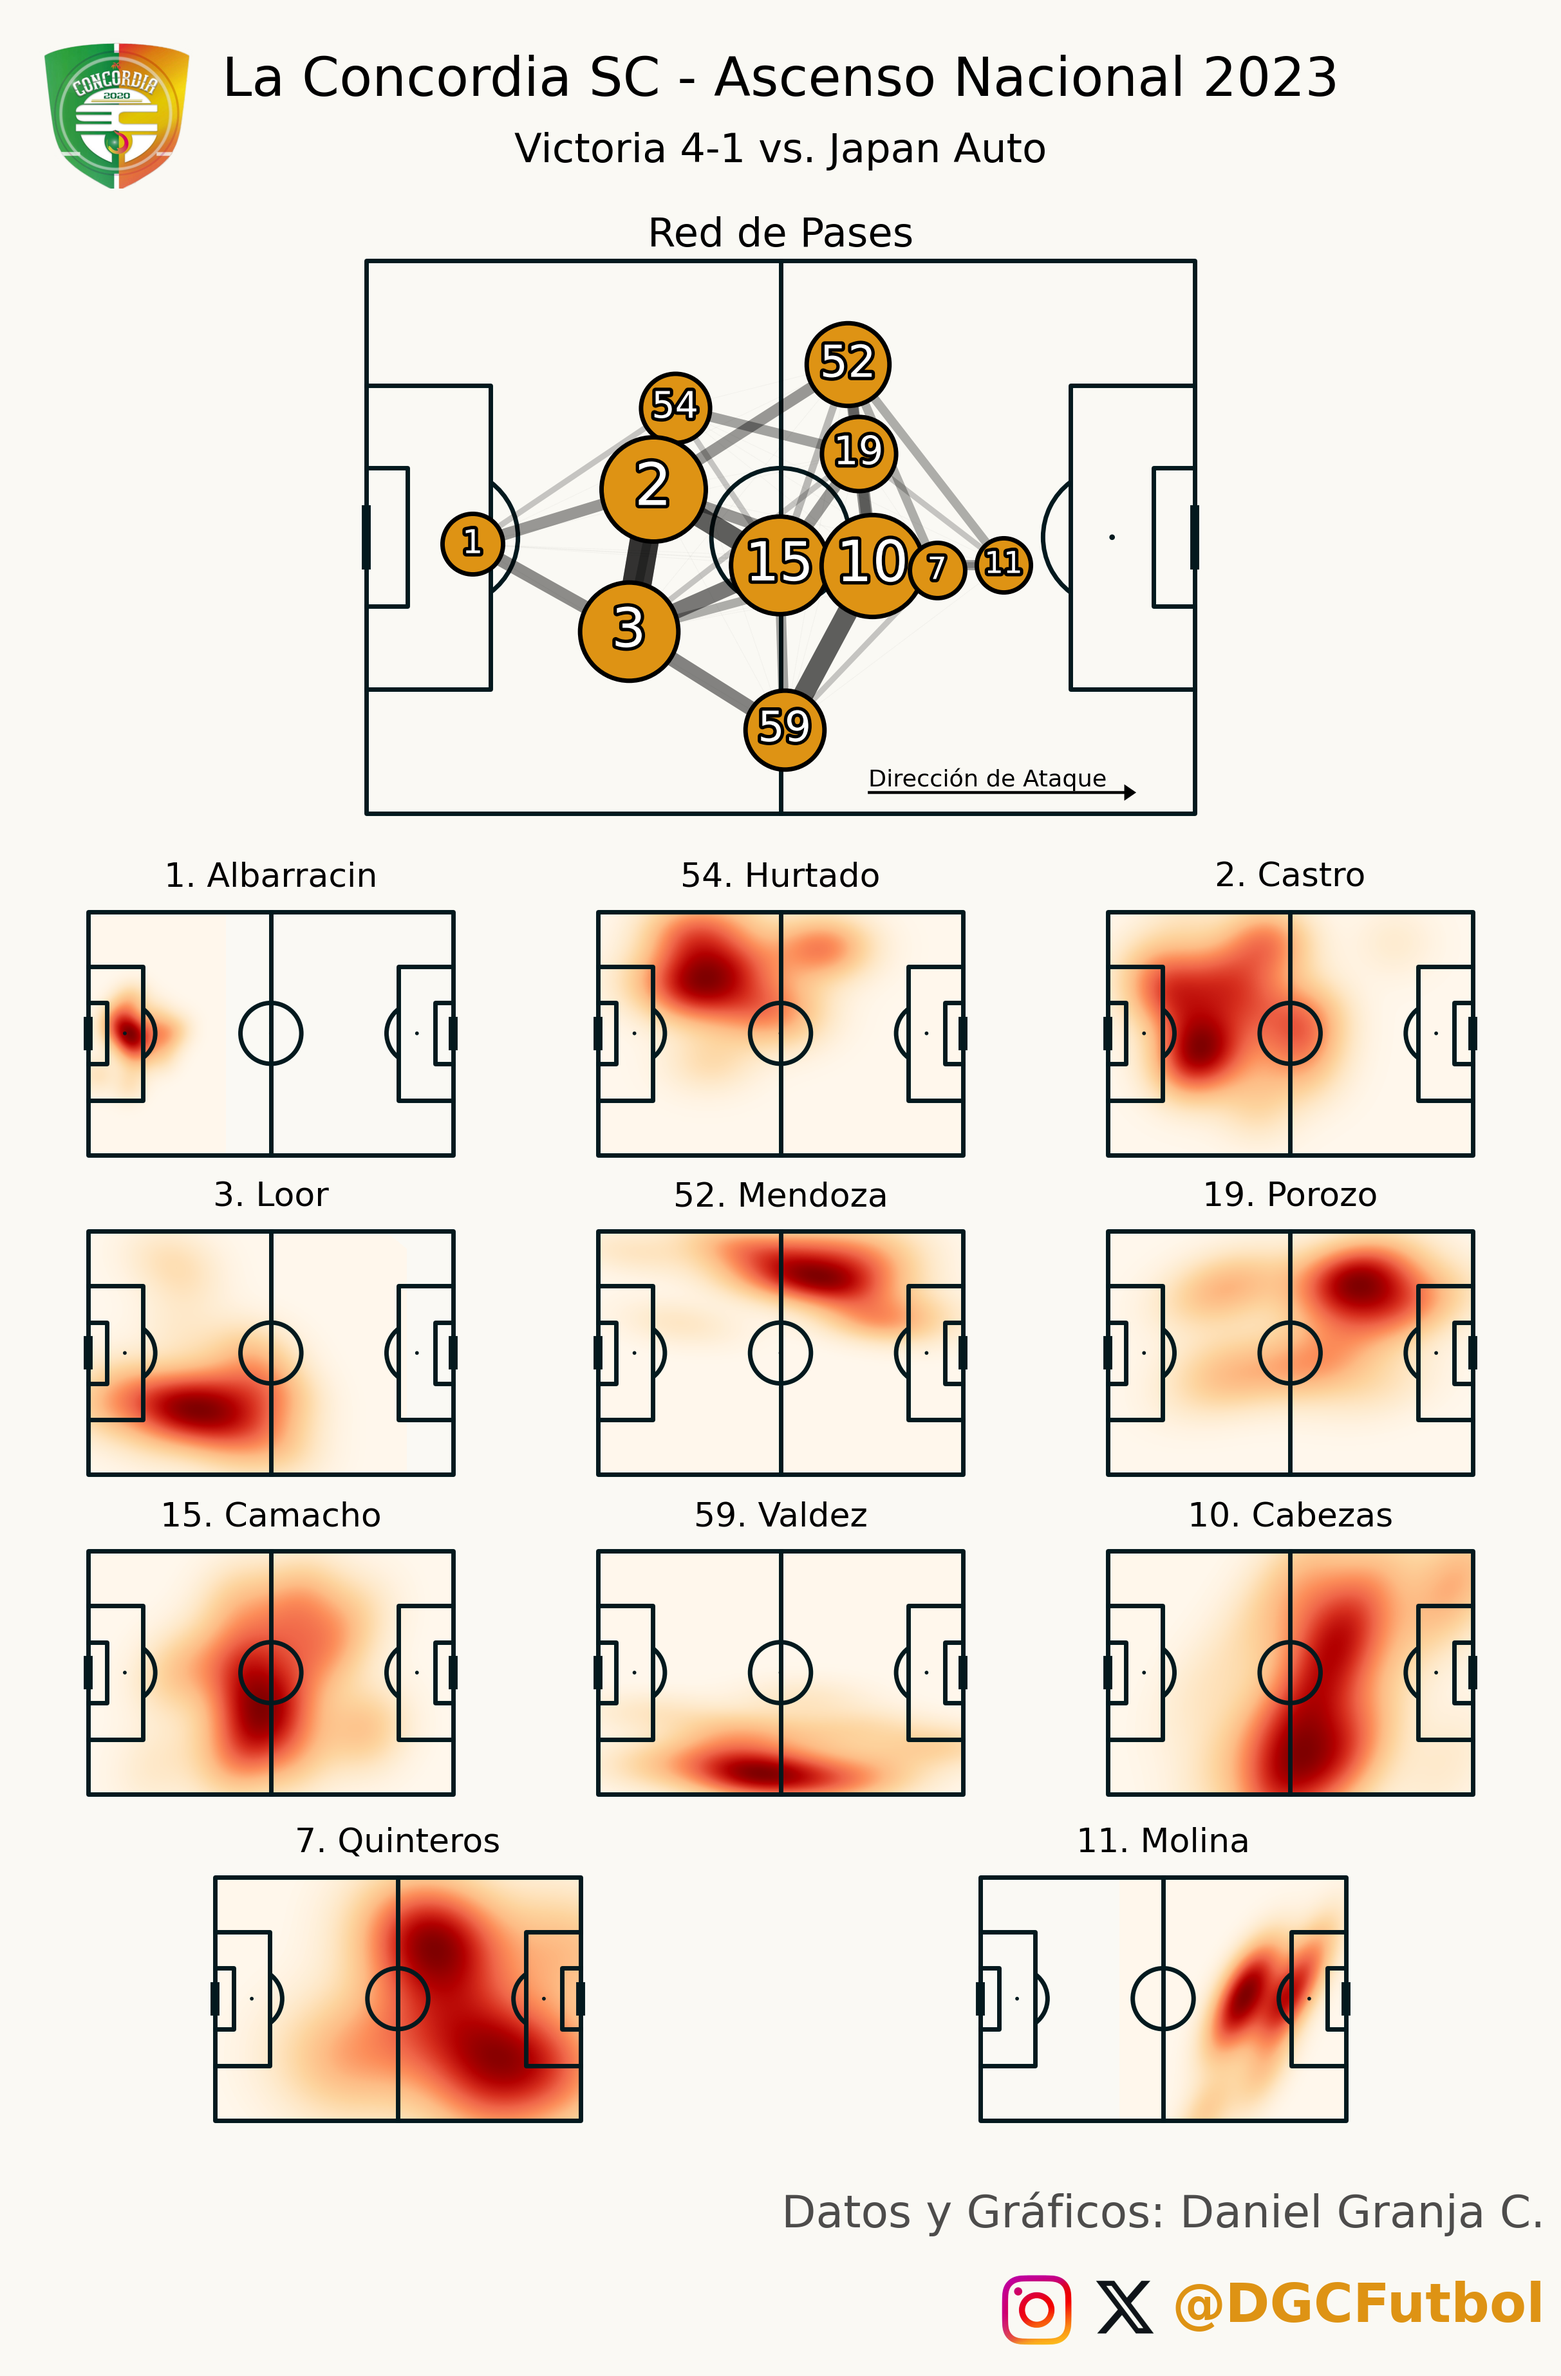
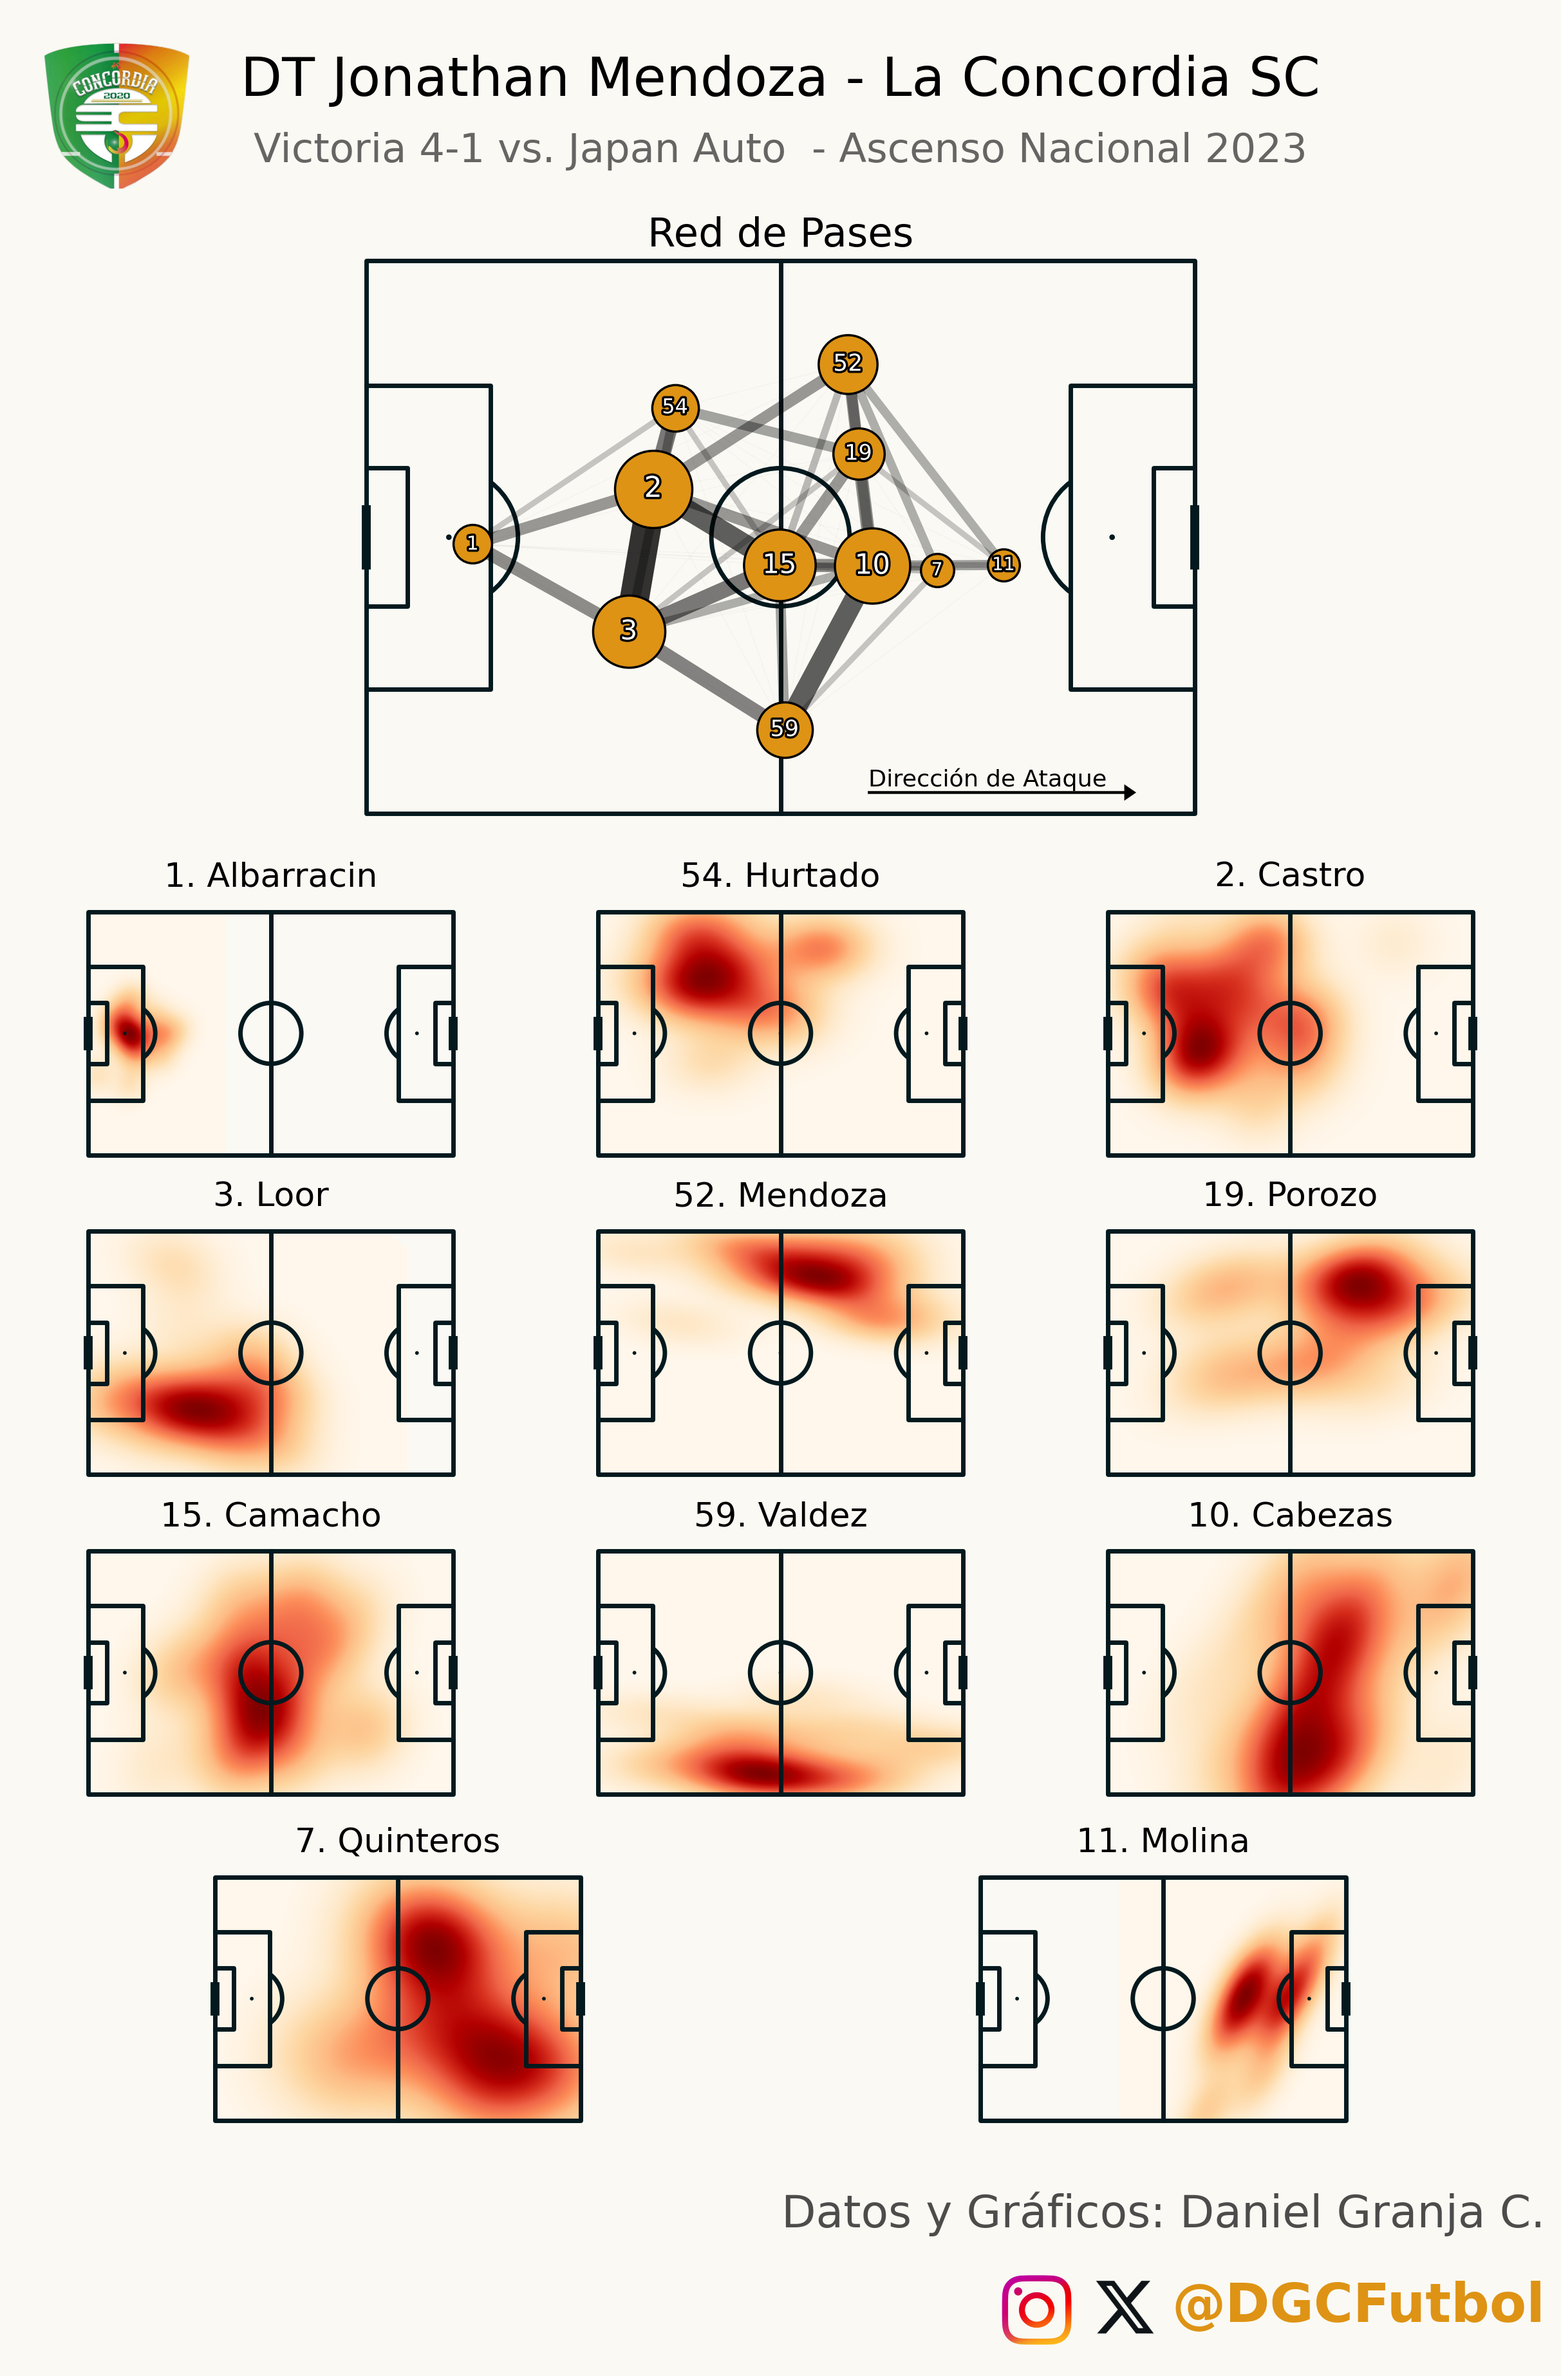
Changed marker size/font size

diff --git a/20240124_LaConcordiaRed/pass_network.py b/20240124_LaConcordiaRed/pass_network.py
@@ -234,7 +234,7 @@ for pl1 in player_list:
             )
 # ------------------------------------------------ 2. Average Passing Location
 # Path effects
-path_eff = [patheffects.Stroke(linewidth=3, foreground='black'),
+path_eff = [patheffects.Stroke(linewidth=2, foreground='black'),
             patheffects.Normal()]
 
 for i, pl in enumerate(player_list):
@@ -243,14 +243,14 @@ for i, pl in enumerate(player_list):
     # With 10% of total team passes, marker size will be s1 which is average
     r = (passes[pl]['Total'] / total_passes)
 
-    th1 = 1
-    s1 = 900
+    th1 = -0.4
+    s1 = 400
 
-    th2 = 0.45
-    s2 = 16
+    th2 = 0.7
+    s2 = 9
 
-    marker_s = s1 * (1 - th1) + ((s1 * th1) * r * 10)
-    text_s = s2 * (1 - th2) + ((s2 * th2) * r * 10)
+    marker_s = (s1 * th1) + (10 * r * s1 * (1-th1))
+    text_s = (s2 * th2) + (10 * r * s2 * (1-th2))
 
     # Player Icons
     pitch.scatter(
@@ -259,12 +259,11 @@ for i, pl in enumerate(player_list):
         ax=axsTop,
         s=marker_s,
         marker='o',
-
         facecolor=base_color,
         # facecolor='crimson',
         # facecolor='#ef4146',
         edgecolors='black',
-        linewidths=2,
+        linewidths=1,
         # alpha=0.5,
         zorder=2,
     )
@@ -280,17 +279,6 @@ for i, pl in enumerate(player_list):
         va='center',
         path_effects=path_eff,
     )
-
-    # # Player Names List
-    # axsTop.text(
-    #     x=122,
-    #     y=0.5 + (i * 5.5),
-    #     s=pl,
-    #     size=17,
-    #     c='black',
-    #     ha='left',
-    #     va='top',
-    # )
 
 # --------------------------------------------------------- 3. PLAYERS HEATMAP
 players_pitch = Pitch(
@@ -357,7 +345,7 @@ newax.axis('off')
 title = ax_title.text(
     x=0.5,
     y=0.8,
-    s='La Concordia SC - Ascenso Nacional 2023',
+    s='DT Jonathan Mendoza - La Concordia SC',
     size=24,
     ha='center',
     va='top',
@@ -367,11 +355,12 @@ title = ax_title.text(
 subtitle = ax_title.text(
     x=0.5,
     y=0.4,
-    s='Victoria 4-1 vs. Japan Auto',
+    s='Victoria 4-1 vs. Japan Auto  - Ascenso Nacional 2023',
     size=18,
     ha='center',
     va='top',
-    # weight='bold',
+    color="#030303",
+    alpha=0.6,
 )
 # ----------------------------------------------------------------- Add Credits
 # Source label
